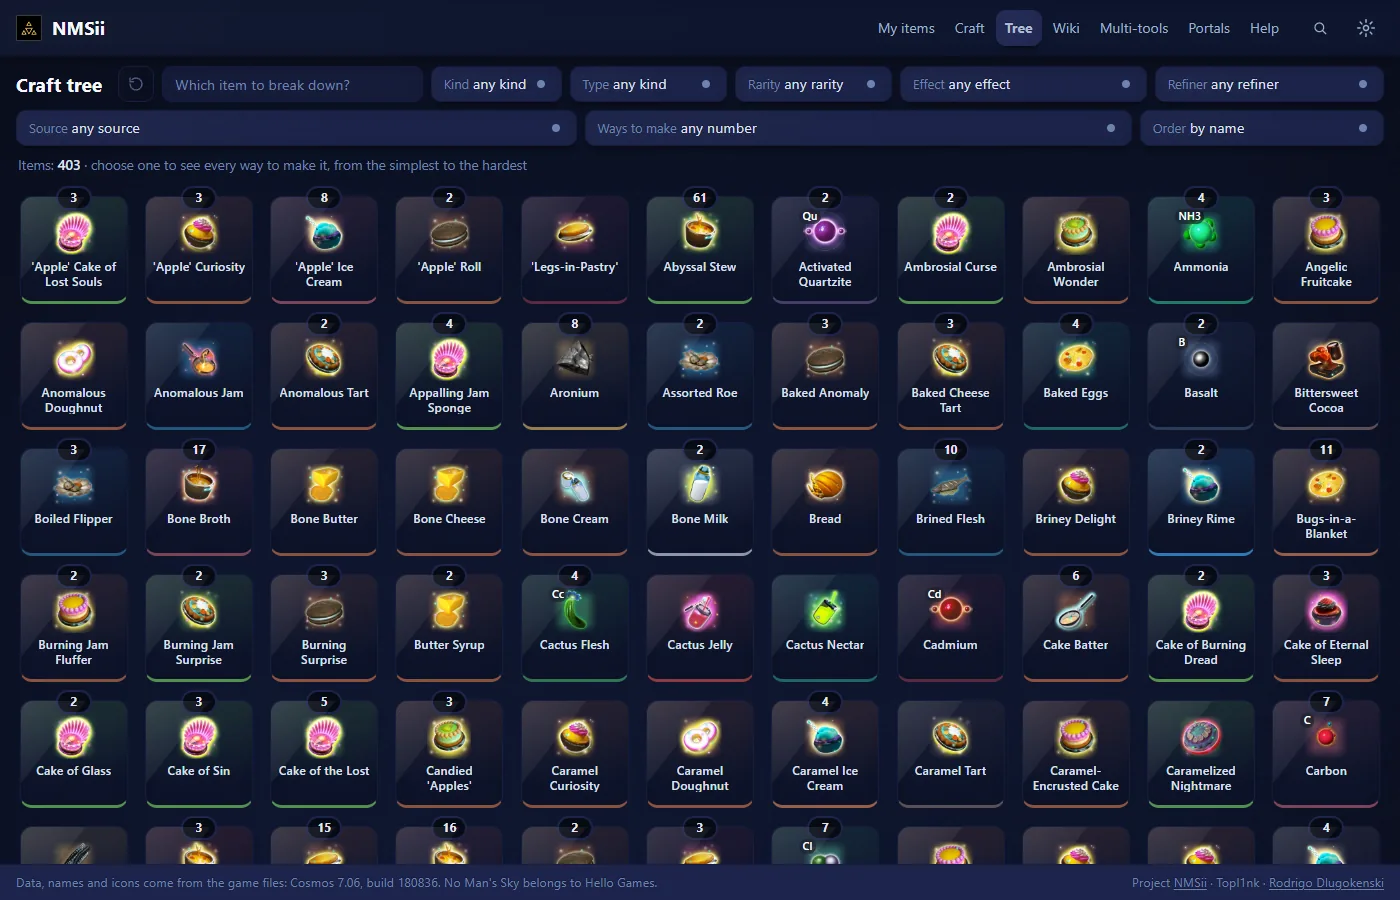
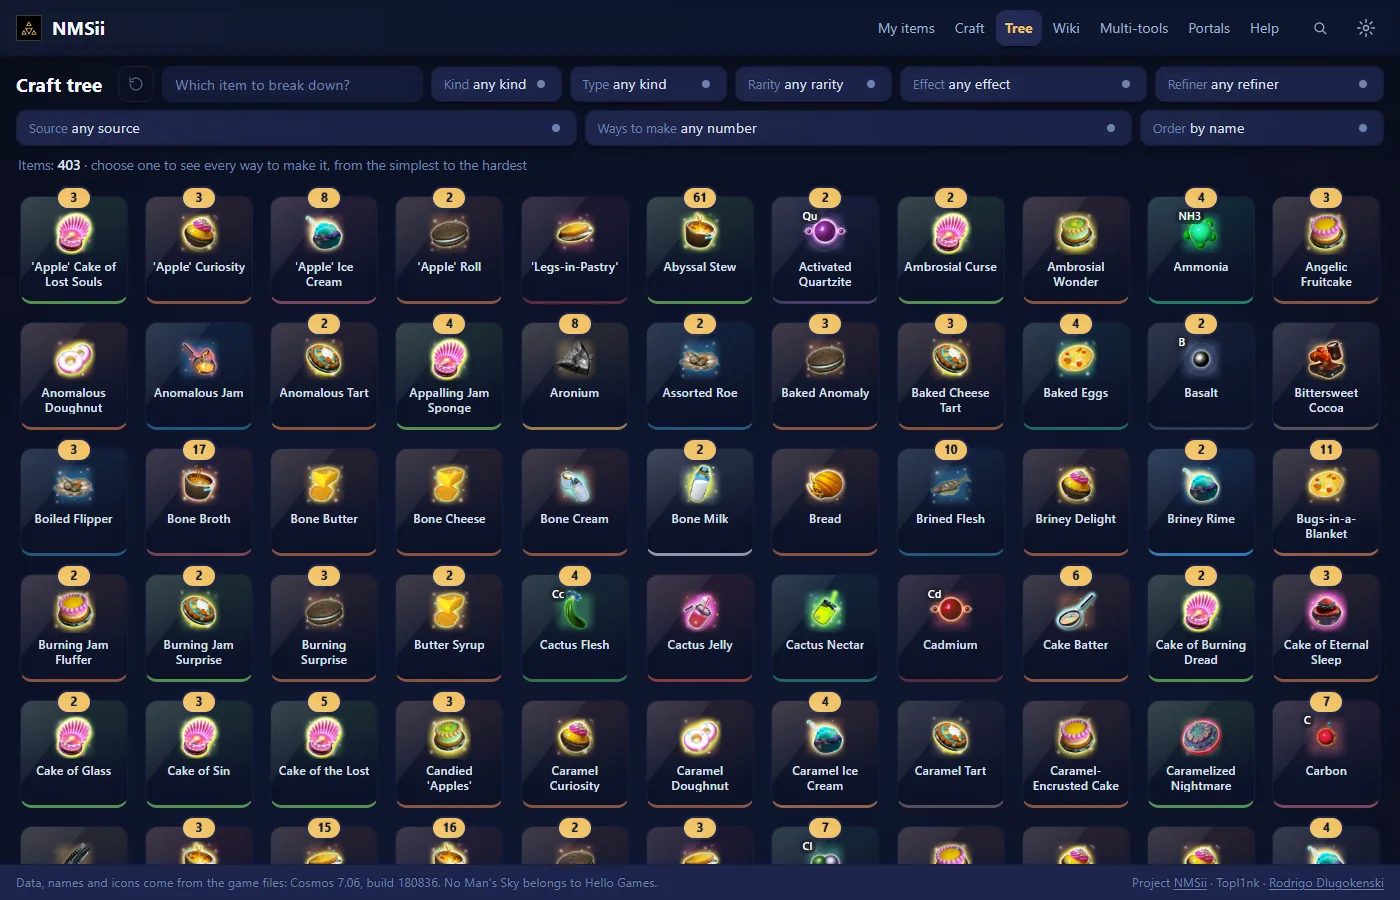
Gold is the accent; the Umber accent is removed
The accent list starts with gold, which is the default (the CSS fallback only covers the instant before
the script sets it); a saved umber falls back to gold; the Umber names are gone from the 14
dictionaries and the accent-chosen storage key is no longer written. Screenshots retaken in gold.

diff --git a/site/src/lib/theme.js b/site/src/lib/theme.js
@@ -13,10 +13,8 @@ export const THEMES = [["light", N_("Light")], ["dark", N_("Dark")]];
 // a good scan, the purple of rare finds, and warning orange.
 //
 // [key, name, colour, ink, on]: the colour fills (a button, a badge); the ink is the same accent where it is drawn as text, a line or
-// an icon on a dark surface; `on` is the text on a fill. "Umber" is the near-black of the theme itself: it fills dark and writes in
-// the soft beige; the others are the same colour in both roles.
+// an icon on a dark surface (the same colour here); `on` is the text on a fill (dark, when none is given). Gold is the default.
 export const ACCENTS = [
-  ["umber", N_("Umber"), "#070a14", "#acbdd4", "#e2e6f3"],
   ["gold", N_("Gold"), "#f1c265"],
   ["cyan", N_("Cyan"), "#5ccbf0"],
   ["green", N_("Green"), "#64f19f"],
@@ -34,8 +32,8 @@ export function applyTheme(choice) {
 }
 
 export const look = {
-  // An accent saved before "Umber" existed (gold, then the only default) is not a choice: only one made after counts.
-  accent: () => (local.get("accent-chosen", false) ? local.get("accent", "umber") : "umber"),
+  // A saved key that is no longer in the list (the "umber" there once was) falls back to the first: gold.
+  accent: () => local.get("accent", "gold"),
   glow: () => local.get("glow", true),
   // Text size in px; the old "bigger text" switch (18) still counts for a saved choice.
   fs: () => Number(local.get("fs", local.get("big", false) ? 18 : 16)),
@@ -55,7 +53,7 @@ export function applyLook() {
 
 export function setLook(key, value) {
   local.set(key, value);
-  if (key === "accent") local.set("accent-chosen", true);
+
   applyLook();
 }
 

diff --git a/site/src/lang/russian.js b/site/src/lang/russian.js
@@ -107,7 +107,7 @@ export default {
   "by time (quickest)": "по времени (быстрые)", "by how easy the raws are": "по доступности сырья",
 
   // -- lib: theme, cycles, gamesave, tree, data (sections)
-  Light: "Светлая", Dark: "Тёмная", Umber: "Умбра", Gold: "Золото", Cyan: "Циан", Green: "Зелёный", Violet: "Фиолетовый", Orange: "Оранжевый",
+  Light: "Светлая", Dark: "Тёмная", Gold: "Золото", Cyan: "Циан", Green: "Зелёный", Violet: "Фиолетовый", Orange: "Оранжевый",
   "No game saves found.": "Сохранения игры не найдены.",
   "Could not read the save: {error}": "Не удалось прочитать сохранение: {error}",
   Loop: "Цикл", loop: "цикл", "{item} per turn": "{item} за оборот", "start with {items}": "начать с {items}",

diff --git a/site/src/app.css b/site/src/app.css
@@ -42,7 +42,7 @@ html { font-size: var(--fs, 16px); }
 body { font: 1.0625rem/1.5 var(--p-sans); -webkit-font-smoothing: antialiased; }
 /* The accent is the visitor's pick (Appearance): one variable drives every highlight. */
 :root[data-theme="dark"] {
-  --p-accent: var(--accent, #070a14); --p-accent-ink: var(--accent-ink, #acbdd4); --p-on-accent: var(--on-accent, #e2e6f3); --p-tertiary: var(--p-accent-ink);
+  --p-accent: var(--accent, #90a6c6); --p-accent-ink: var(--accent-ink, #90a6c6); --p-on-accent: var(--on-accent, #0b1124); --p-tertiary: var(--p-accent-ink);
   --p-sel: #2a3261; /* the selected row: a lighter blue */
 }
 :root[data-theme="light"] {

diff --git a/site/src/lang/japanese.js b/site/src/lang/japanese.js
@@ -211,7 +211,6 @@ export default {
   "Use it": "使う",
   "Light": "ライト",
   "Dark": "ダーク",
-  "Umber": "アンバー",
   "Gold": "ゴールド",
   "Cyan": "シアン",
   "Green": "グリーン",

diff --git a/site/src/lang/korean.js b/site/src/lang/korean.js
@@ -211,7 +211,6 @@ export default {
   "Use it": "사용",
   "Light": "밝게",
   "Dark": "어둡게",
-  "Umber": "엄버",
   "Gold": "금색",
   "Cyan": "청록",
   "Green": "초록",

diff --git a/site/src/lang/simplifiedchinese.js b/site/src/lang/simplifiedchinese.js
@@ -211,7 +211,6 @@ export default {
   "Use it": "使用",
   "Light": "浅色",
   "Dark": "深色",
-  "Umber": "棕褐",
   "Gold": "金色",
   "Cyan": "青色",
   "Green": "绿色",

diff --git a/site/src/lang/traditionalchinese.js b/site/src/lang/traditionalchinese.js
@@ -211,7 +211,6 @@ export default {
   "Use it": "使用",
   "Light": "淺色",
   "Dark": "深色",
-  "Umber": "棕褐",
   "Gold": "金色",
   "Cyan": "青色",
   "Green": "綠色",

diff --git a/site/src/lang/italian.js b/site/src/lang/italian.js
@@ -211,7 +211,6 @@ export default {
   "Use it": "Usa",
   "Light": "Chiaro",
   "Dark": "Scuro",
-  "Umber": "Terra d'ombra",
   "Gold": "Oro",
   "Cyan": "Ciano",
   "Green": "Verde",

diff --git a/site/src/lang/dutch.js b/site/src/lang/dutch.js
@@ -211,7 +211,6 @@ export default {
   "Use it": "Gebruiken",
   "Light": "Licht",
   "Dark": "Donker",
-  "Umber": "Omber",
   "Gold": "Goud",
   "Cyan": "Cyaan",
   "Green": "Groen",

diff --git a/site/src/lang/polish.js b/site/src/lang/polish.js
@@ -211,7 +211,6 @@ export default {
   "Use it": "Użyj",
   "Light": "Jasny",
   "Dark": "Ciemny",
-  "Umber": "Umbra",
   "Gold": "Złoto",
   "Cyan": "Cyjan",
   "Green": "Zielony",

diff --git a/site/src/lang/german.js b/site/src/lang/german.js
@@ -211,7 +211,6 @@ export default {
   "Use it": "Benutzen",
   "Light": "Hell",
   "Dark": "Dunkel",
-  "Umber": "Umbra",
   "Gold": "Gold",
   "Cyan": "Cyan",
   "Green": "Grün",

diff --git a/site/src/lang/brazilianportuguese.js b/site/src/lang/brazilianportuguese.js
@@ -211,7 +211,6 @@ export default {
   "Use it": "Usar",
   "Light": "Claro",
   "Dark": "Escuro",
-  "Umber": "Sombra",
   "Gold": "Ouro",
   "Cyan": "Ciano",
   "Green": "Verde",
